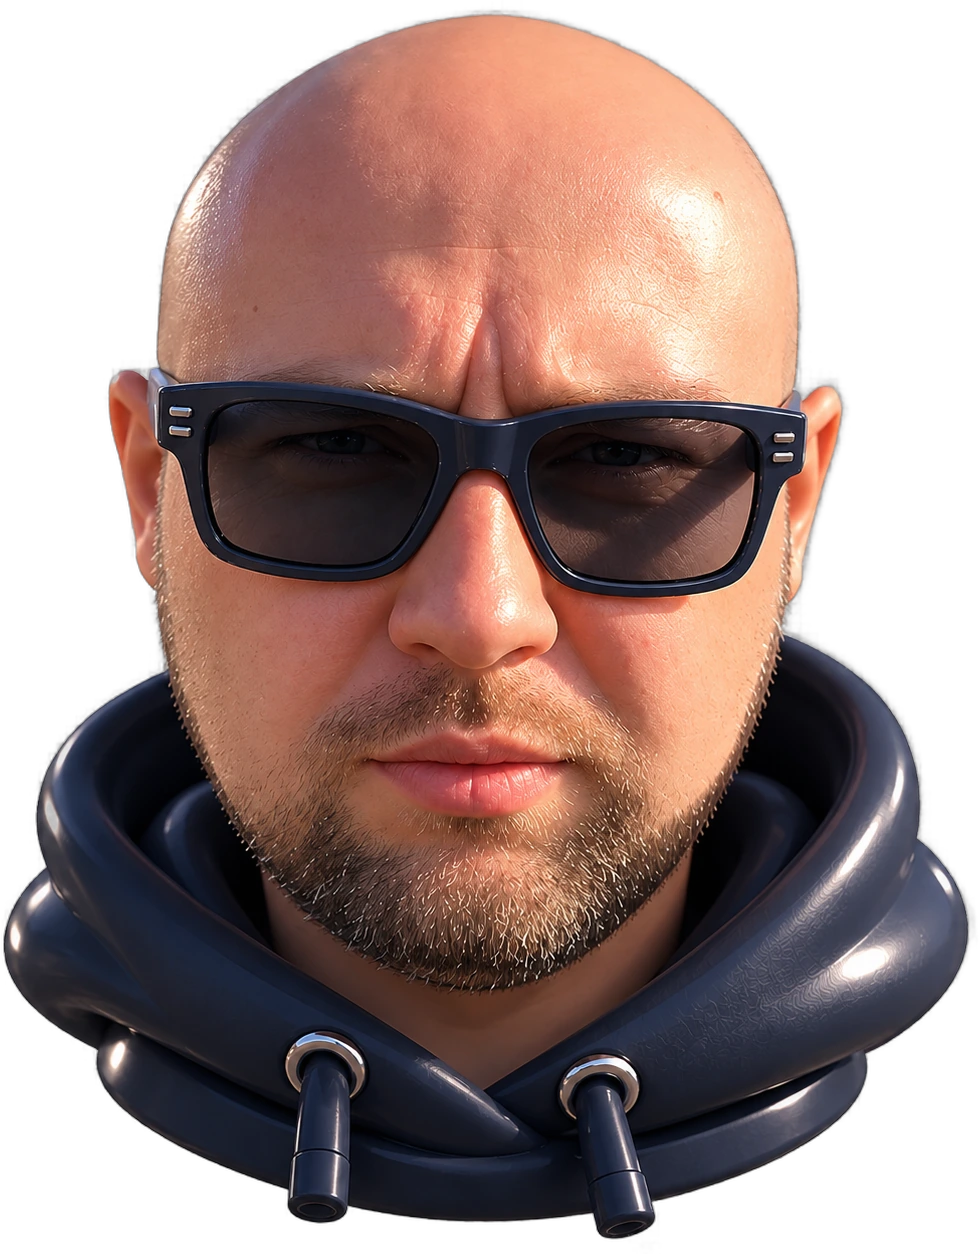
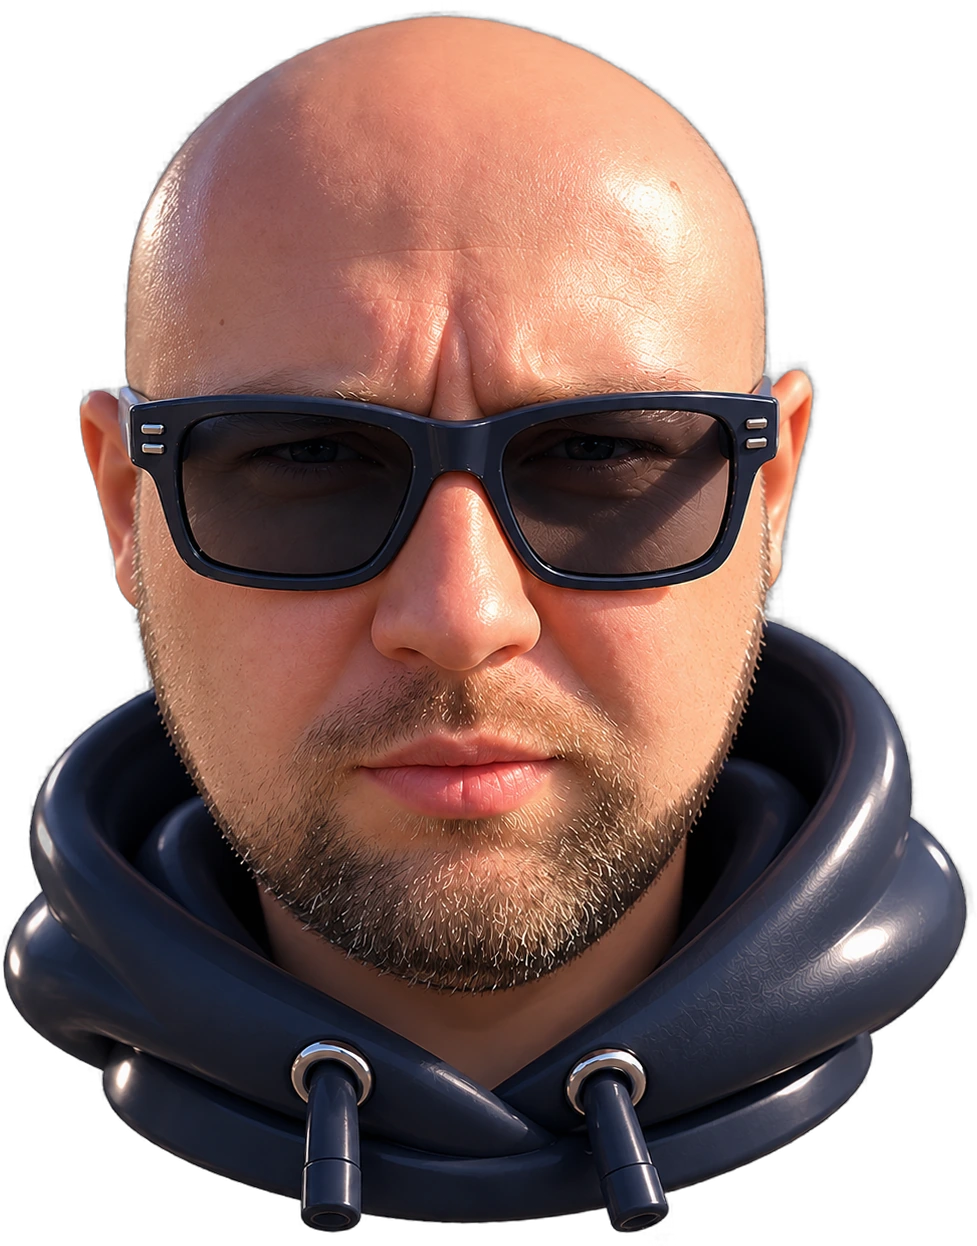
pages(about): аватар у кольорі й вирівняний
tokens(site): filter.none → imageFilter.none, portrait.filter тепер без монохрому.
Аватар повернуто на 3° (рівень окулярів), купол черепа підтягнуто до осі обличчя.

Claude-Session: https://claude.ai/code/session_01MxyobyzHBR2Jvwc8WiKAnb

Changed region(s): [[0.0, 0.0, 0.8905, 1.0], [0.7677, 0.5795, 1.0, 0.9149], [0.7062, 0.7319, 0.7369, 0.7624]]

diff --git a/docs/token-properties.md b/docs/token-properties.md
@@ -5,7 +5,7 @@
 
 | Властивість у імені | CSS | Тип Token Studio | Шар | Приклад |
 |---|---|---|---|---|
-| `filter` | `filter` | `other` | core `filter.mono` → theme `imageFilter.mono` → component | `portrait.filter` (чорно-біле фото) |
+| `filter` | `filter` | `other` | core `filter.mono` / `filter.none` → theme `imageFilter.*` → component | `portrait.filter` → `imageFilter.none` (аватар у кольорі) |
 | `backdropFilter` | `backdrop-filter` | `backdropFilter` (other) | core → theme → component | `glass.backdropFilter` → `backdropFilter.glass` → `filter.glass` |
 | `boxShadow` | `box-shadow` | `boxShadow` (композит) | theme → component | `glass.boxShadow` → `boxShadow.glass` (inner highlight + drop shadow) |
 | `duration` | `transition-duration`, `animation-duration` | `duration` | core `time.*` → theme `duration.*` → component `motion.duration.*` | `motion.duration.fast` = 120ms |
